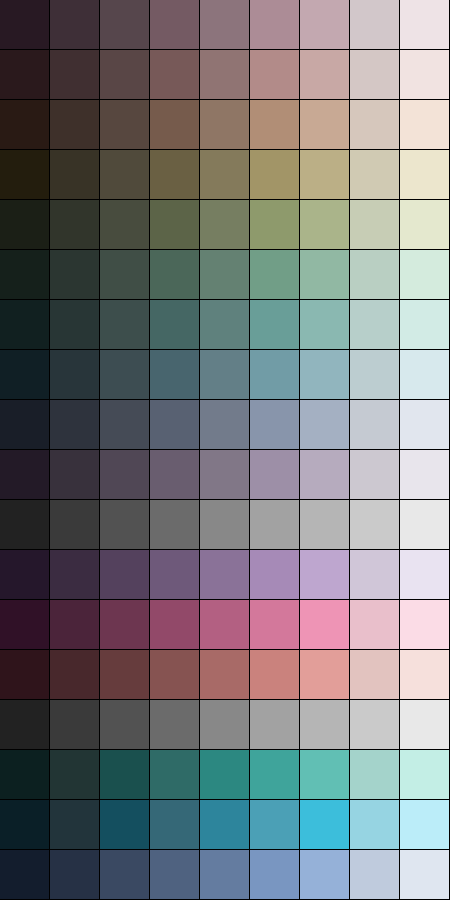
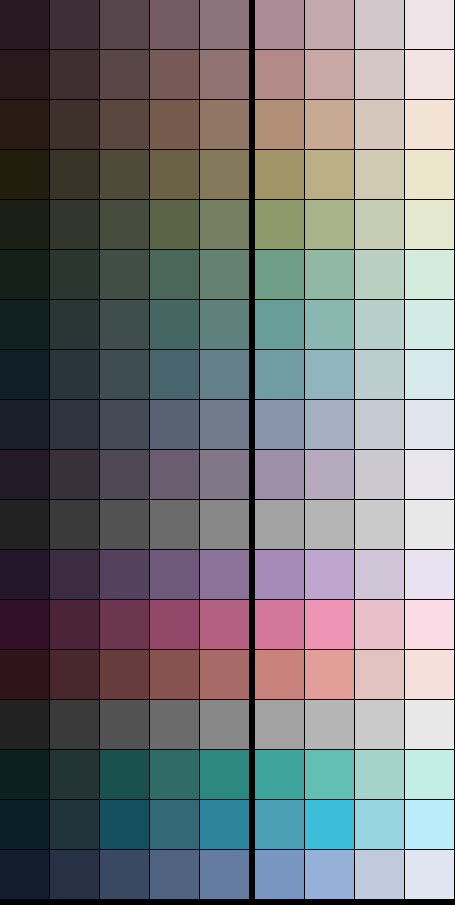
checkpoint

diff --git a/color/general_palette.py b/color/general_palette.py
@@ -146,8 +146,10 @@ def adjust_chroma(value: int, peak_chroma: int) -> float:
 PALETTE_ROWS = len(hues)
 PALETTE_COLUMNS = len(values)
 SWATCH_SIZE = 50
-PALETTE_WIDTH = PALETTE_COLUMNS * SWATCH_SIZE
-PALETTE_HEIGHT = PALETTE_ROWS * SWATCH_SIZE
+GAP = 5  # Column gap between darks and lights
+GAP_COLUMN = 5
+PALETTE_WIDTH = PALETTE_COLUMNS * SWATCH_SIZE + GAP
+PALETTE_HEIGHT = PALETTE_ROWS * SWATCH_SIZE + GAP
 
 
 def paint_swatch(image: PhotoImage, row: int, column: int,
@@ -158,6 +160,8 @@ def paint_swatch(image: PhotoImage, row: int, column: int,
     if row < 0 or row >= PALETTE_ROWS:
         raise ValueError('bad row')
     x_start = column * SWATCH_SIZE
+    if column >= GAP_COLUMN:
+        x_start += GAP
     y_start = row * SWATCH_SIZE
     for x in range(x_start, x_start + SWATCH_SIZE - 1):
         for y in range(y_start, y_start + SWATCH_SIZE - 1):
